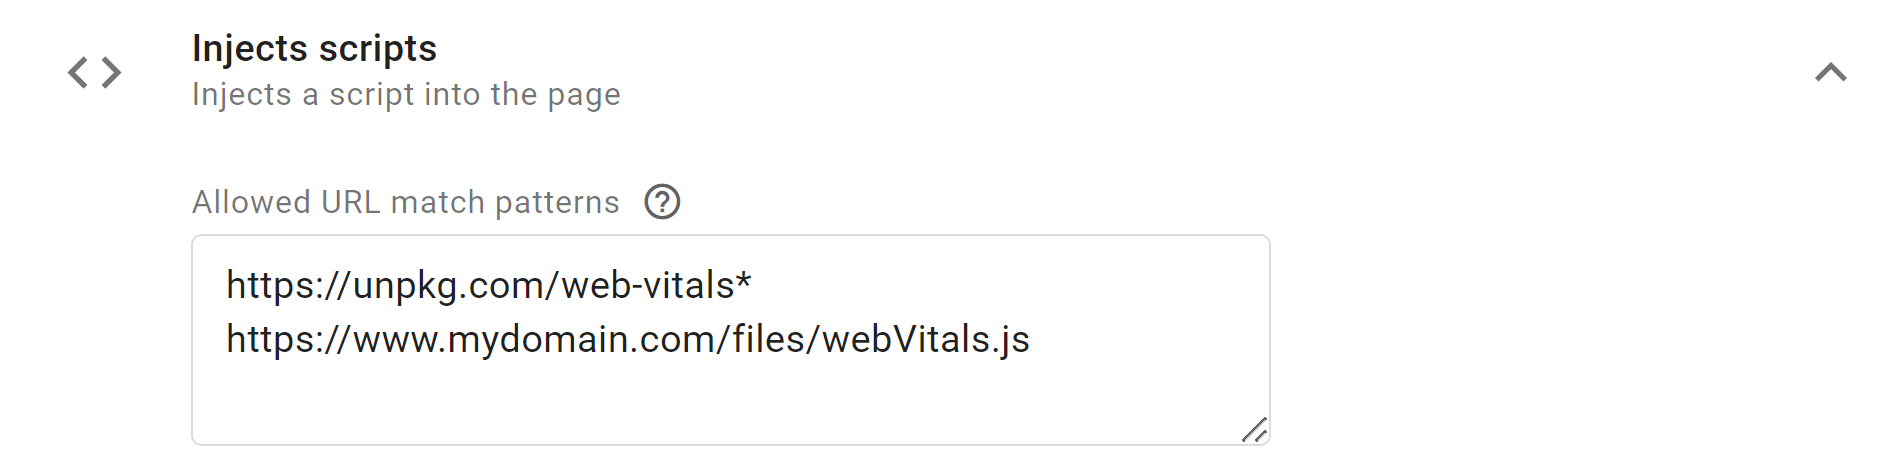
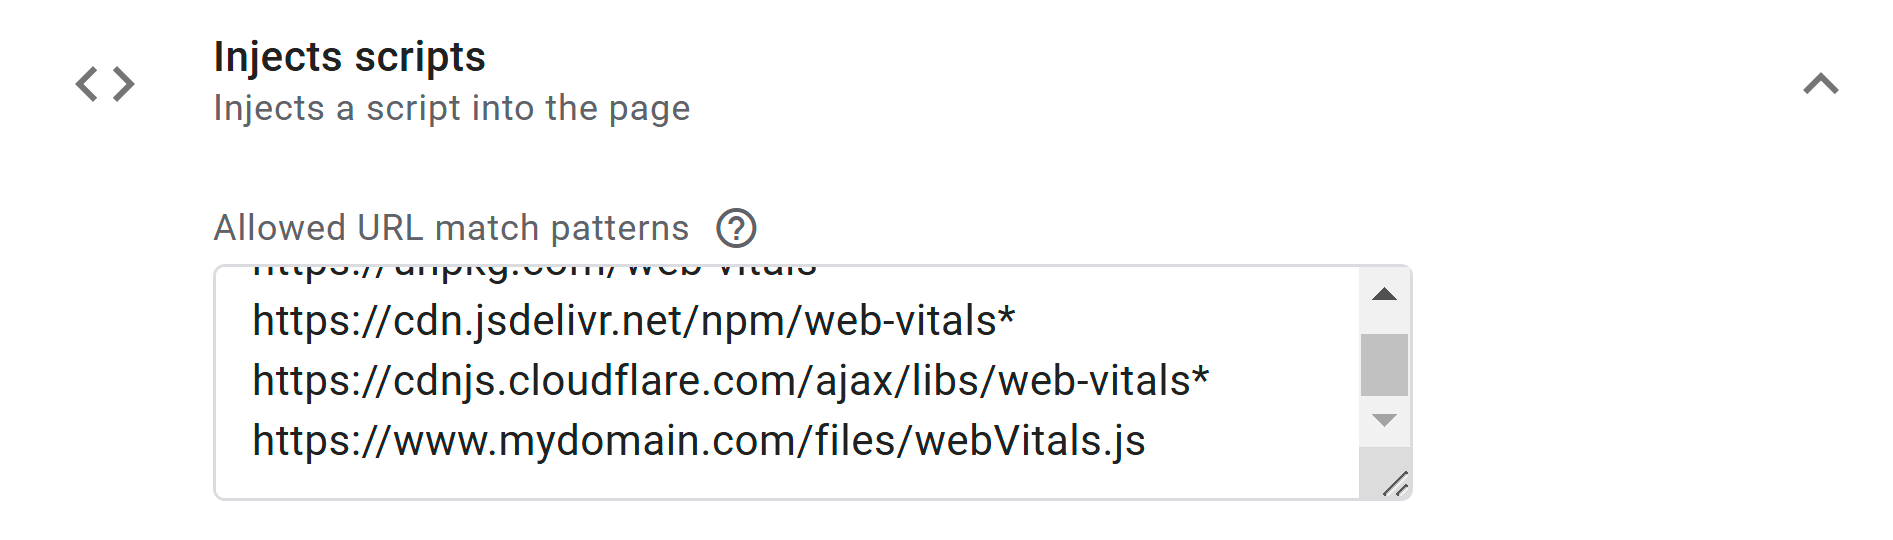
Update README.md

diff --git a/README.md b/README.md
@@ -46,8 +46,9 @@ For a **quick start** you can leave the default settings as they are and just ad
 
 For a **customized setup** you have different options to choose from:
 
-- **Choose how to load the library:** You can load the web vitals library from the unpkg.com CDN or use a custom URL to load the library. **[For the latter please consider these instructions.](#load-library-from-a-custom-url)**
-- **Build options:** When loading the library from the unpkg.com CDN you can choose between two different [build options](https://github.com/GoogleChrome/web-vitals#build-options). To get started use the standard built, to collect additional diagnostic information use the attribution build.
+- **Choose how to load the library:** You can load the web vitals library from a CDN or use a custom URL to load the library. **[For the latter please consider these instructions.](#load-library-from-a-custom-url)**
+- **Choose a CDN:** Choose between unpkg.com, jsDelivr and cdnjs as the provider of the web vitals library.
+- **Build options:** When loading the library from a CDN you can choose between two different [build options](https://github.com/GoogleChrome/web-vitals#build-options). To get started use the standard built, to collect additional diagnostic information use the attribution build.
 - **Metrics configuration:** Choose which metrics you want to measure. You can measure all metrics. Alternatively choose separately between the following metrics.
     + [Cumulative Layout Shift (CLS)](https://web.dev/cls/)
     + [First Input Delay (FID)](https://web.dev/fid/)
